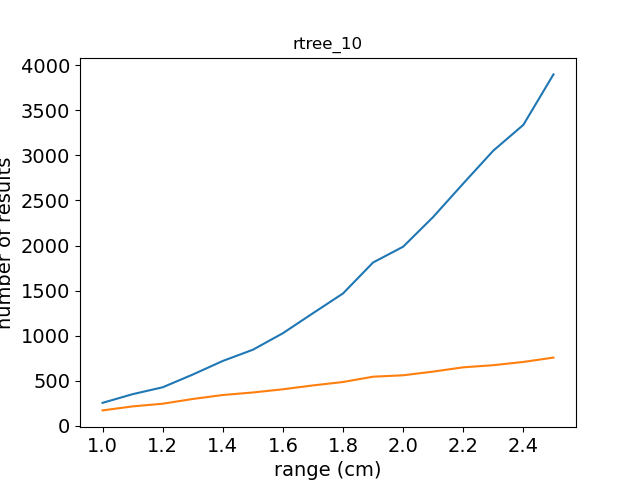
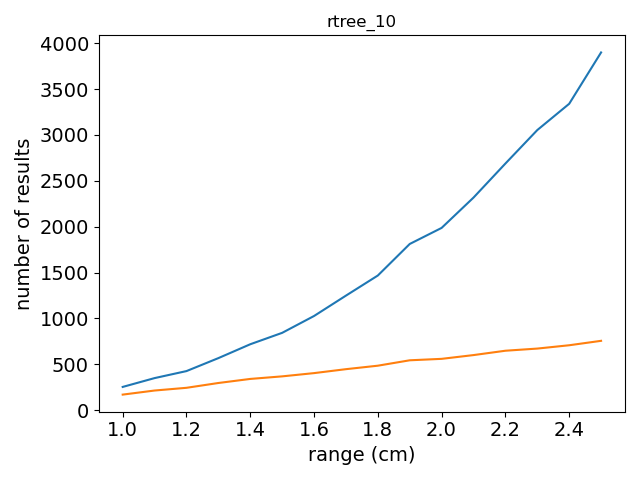
new figure

diff --git a/scripts/experiments.py b/scripts/experiments.py
@@ -34,9 +34,10 @@ def drawing_highdof():
     plt.yticks(fontsize=14)
     plt.xlabel("kinematically redundant robot", size=14)
     plt.ylabel("improvement (%)", size=14)
-    lg = plt.legend(label, bbox_to_anchor=(1.05, 1.0), loc='upper left', fontsize=12)
+    # lg = plt.legend(label, bbox_to_anchor=(1.05, 1.0), loc='upper left', fontsize=12)
+    lg = plt.legend(label, bbox_to_anchor=(1.0, 1.25), loc='upper right', fontsize=12)
     # plt.title('improvement')
-    # plt.savefig(RESULT_FOLDER+'high_dof.png', bbox_extra_artists=(lg,), bbox_inches='tight')
+    plt.savefig(RESULT_FOLDER+'high_dof_u.png', bbox_extra_artists=(lg,), bbox_inches='tight')
     plt.show()
 
 def drawing_improve():
@@ -73,11 +74,11 @@ def drawing_improve():
     plt.xlabel("look-up table", size=14)
     plt.ylabel("improvement (%)", size=14)
     # plt.title('improvement')
-    # lg = plt.legend(label, bbox_to_anchor=(1.0, 1.25), loc='upper right', fontsize=12)
+    lg = plt.legend(label, bbox_to_anchor=(1.0, 1.25), loc='upper right', fontsize=12)
     # plt.savefig(RESULT_FOLDER+'secondary_adjacent.png', bbox_extra_artists=(lg,), bbox_inches='tight')
     # plt.savefig(RESULT_FOLDER+'secondary_near50.png', bbox_extra_artists=(lg,), bbox_inches='tight')
-    lg = plt.legend(label, bbox_to_anchor=(1.05, 1.0), loc='upper left', fontsize=12)
-    # plt.savefig(RESULT_FOLDER+'accelerate_improvement.png', bbox_extra_artists=(lg,), bbox_inches='tight')
+    # lg = plt.legend(label, bbox_to_anchor=(1.05, 1.0), loc='upper left', fontsize=12)
+    # plt.savefig(RESULT_FOLDER+'accelerate_improvement_u.png', bbox_extra_artists=(lg,), bbox_inches='tight')
     plt.show()
 
 def ik_speed(iter, dataset):
@@ -181,7 +182,7 @@ def bout_data(iter, dataset):
         rang = 0.0005
         dsf = 'full/'
 
-    range = 0.05
+    # rang = 0.05
 
     filename = RESULT_FOLDER+dsf+'post_num_'+str(iter)
 
@@ -1060,20 +1061,24 @@ def draw_num(dataset):
     #20
     #10
 
-    # ra = [i/1000 for i in range(10, 200, 5)]#rtree_30
-    ra = data.tolist()['rang']
+    ra = [i/1000 for i in range(10, 200, 5)]#rtree_30
+    # ra = data.tolist()['rang']
     ra = [r*100 for r in ra]
     qn = data.tolist()['query_num']
     pn = data.tolist()['post_num']
+    print(ra[8:12])
+    print(qn[8:12])
+    print(pn[8:12])
     # print([p/q for p,q in zip(pn,qn)])
 
-    plt.plot(ra, qn)
-    plt.plot(ra, pn)
+    plt.plot(ra[:], qn[:])
+    plt.plot(ra[:], pn[:])
     plt.xticks(fontsize=14)
     plt.yticks(fontsize=14)
     plt.xlabel("range (cm)", size=14)
     plt.ylabel("number of results", size=14)
     plt.title(dataset)
+    plt.tight_layout()
     # plt.savefig(RESULT_FOLDER+'draw_num_'+dataset+'.png')
     plt.show()
 
@@ -1327,7 +1332,7 @@ if __name__ == '__main__':
     # dataset = 'dense'
     # dataset = 'full_jointonly_8'
 
-    draw_num(dataset)
+    # draw_num(dataset)
     # table_num(dataset, 1000, 1e-4, 'all')
 
     # ds = ['rtree_30', 'rtree_20', 'rtree_10', 'dense', 'full_jointonly_8']
@@ -1346,7 +1351,7 @@ if __name__ == '__main__':
     # accelerate(dataset, 10000, 1e-4)
 
     # ik_speed(10000, dataset)
-    # bout_data(1000, dataset)
+    # bout_data(10, dataset)
     # query_time(dataset, 10000)
 
     # ik_iteration(10000)
@@ -1355,7 +1360,7 @@ if __name__ == '__main__':
     # high_dof(1000)
     # ik_speed_draw(100)
     # drawing_line()
-    # drawing_improve()
+    drawing_improve()
     # drawing_highdof()
 
     # robot = Robot()
